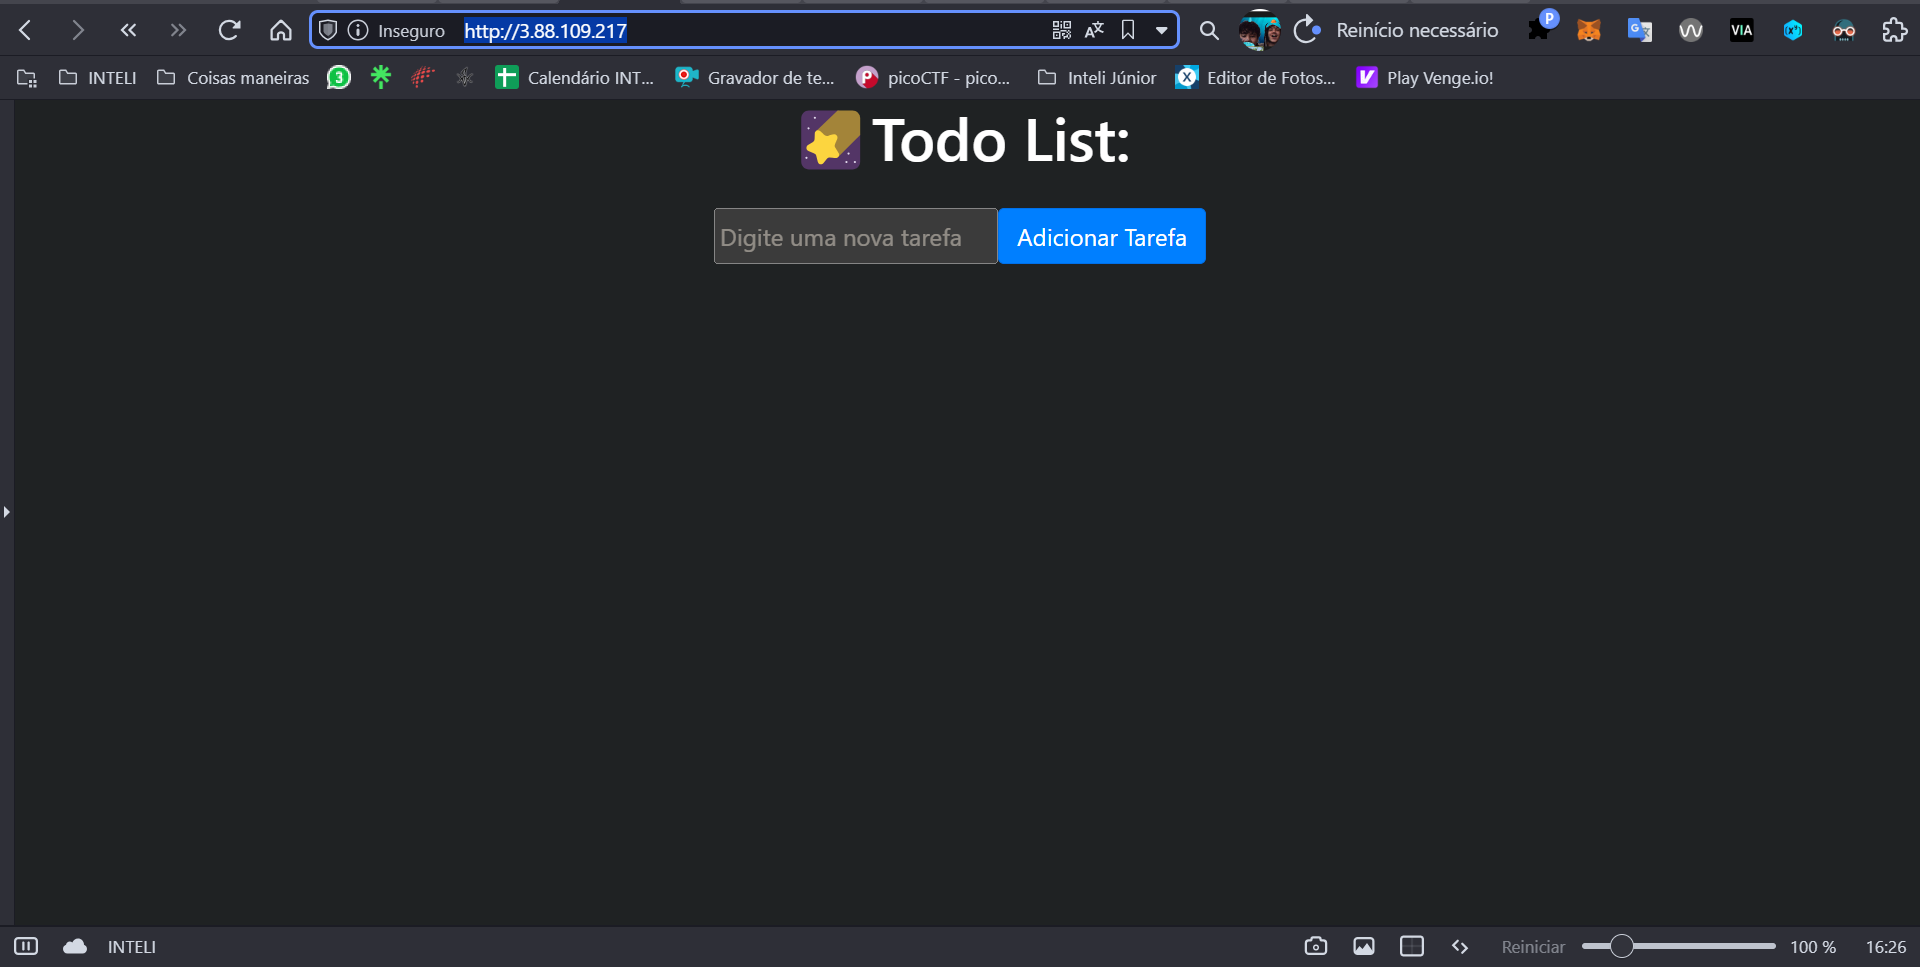
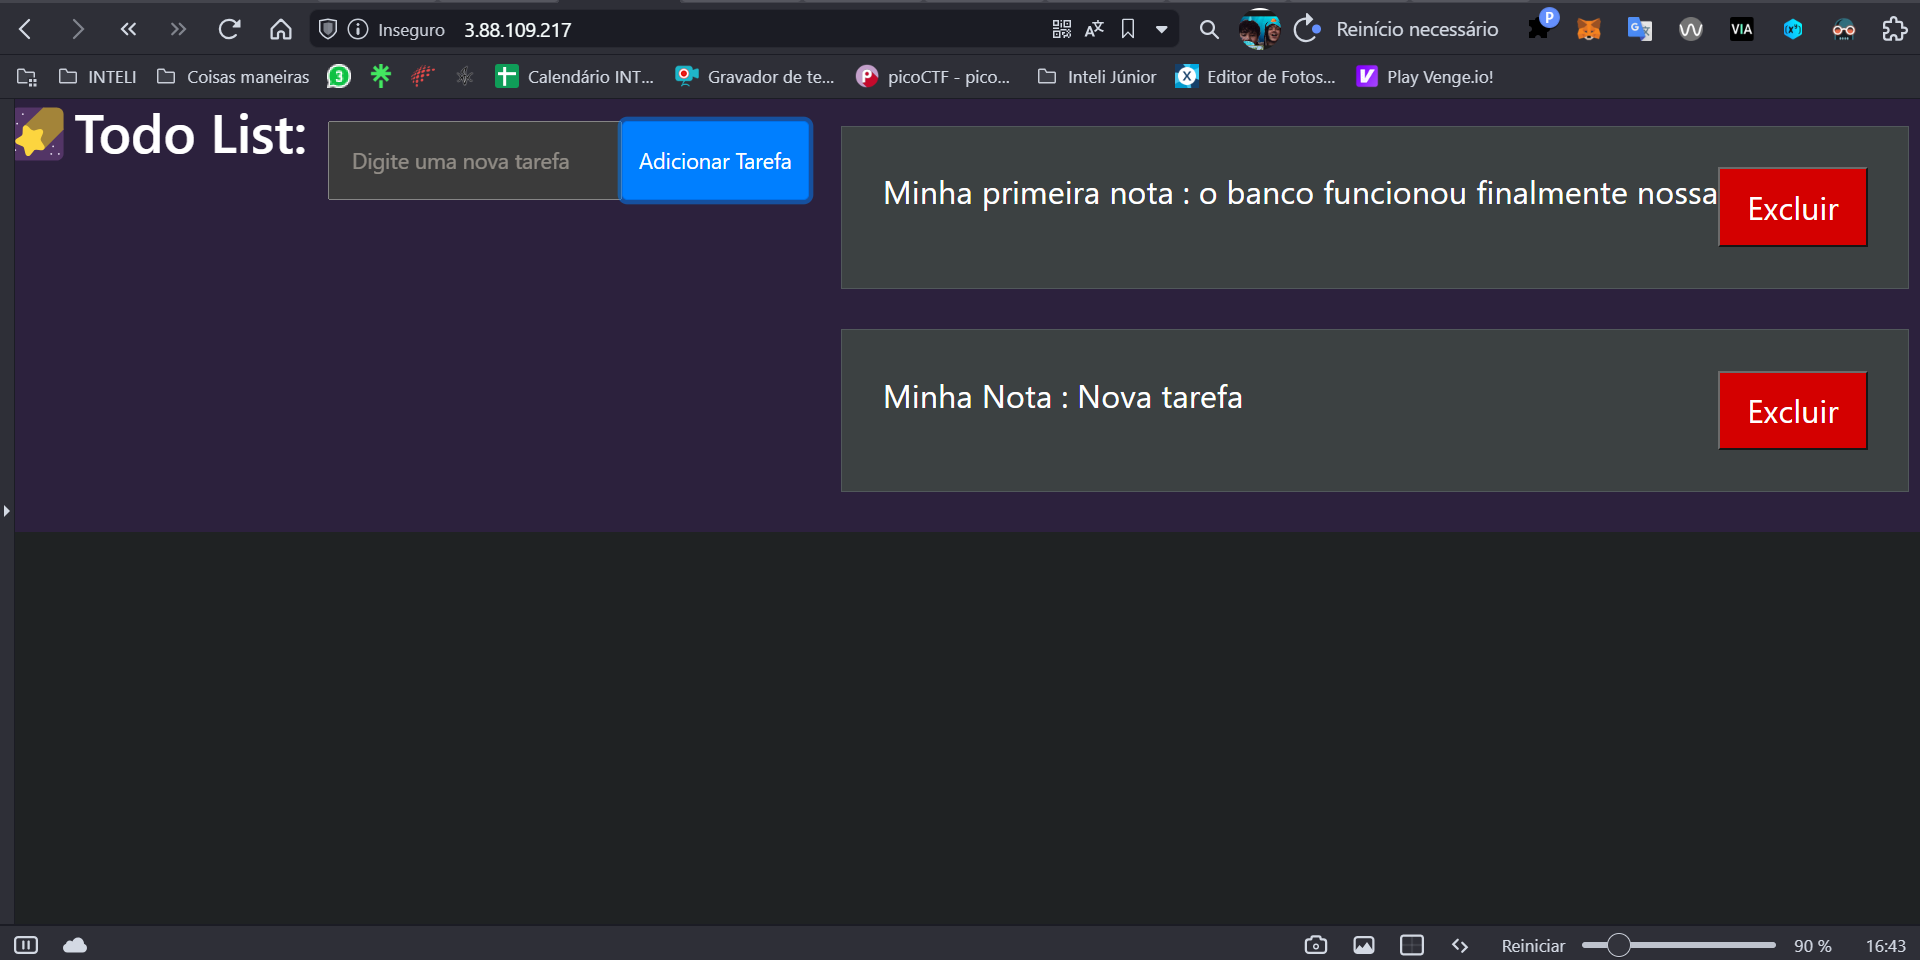
tudo funcionando, falta documentar a gambiarra

diff --git a/provas/prova_2/frontend/script.js b/provas/prova_2/frontend/script.js
@@ -4,7 +4,7 @@ function addTask() {
 
   if (taskText !== "") {
     //Realizar um POST com fetch para enviar os dados para o backend
-    fetch("http://34.239.111.82:80/create_note", {
+    fetch("http://34.239.111.82:8000/create_note", {
       method: "POST",
       body: JSON.stringify({
         titulo: `Minha Nota`,
@@ -26,7 +26,7 @@ function getTasks() {
   const taskList = document.getElementById("taskList");
   //Limpa a lista
   taskList.innerHTML = "";
-  fetch("http://34.239.111.82:80/notes")
+  fetch("http://34.239.111.82:8000/notes")
     .then((response) => response.json())
     .then((data) => {
       data["data"].forEach((task) => {
@@ -57,7 +57,7 @@ function getTasks() {
 }
 
 function deleteTask(id) {
-  fetch(`http://34.239.111.82:80/delete_note/`, {
+  fetch(`http://34.239.111.82:8000/delete_note/`, {
     method: "DELETE",
     headers: {
       "Content-type": "application/json; charset=UTF-8",

diff --git a/provas/prova_2/frontend/index.html b/provas/prova_2/frontend/index.html
@@ -9,7 +9,7 @@
       integrity="sha384-Gn5384xqQ1aoWXA+058RXPxPg6fy4IWvTNh0E263XmFcJlSAwiGgFAW/dAiS6JXm"
       crossorigin="anonymous"
     />
-    <link rel="stylesheet" href="style.css" />
+    <link rel="stylesheet" href="styles.css" />
     <title>Todo List - Prova Prática 2 - Inteli M7 - 2023</title>
   </head>
   <body>

diff --git a/provas/prova_2/backend/main.py b/provas/prova_2/backend/main.py
@@ -32,6 +32,21 @@ app.add_middleware(
 )
 
 
+@app.post("/create-table")
+def create_table():
+    cur.execute(
+        """DROP TABLE IF EXISTS minhas_notas ;
+
+    CREATE TABLE minhas_notas (
+        id SERIAL PRIMARY KEY,
+        titulo VARCHAR(255) NOT NULL,
+        descricao TEXT NOT null,
+        data_criacao TIMESTAMP NOT NULL DEFAULT CURRENT_TIMESTAMP
+    );"""
+    )
+    return {"response": "ok"}
+
+
 @app.get("/notes")
 def get_notes():
     cur.execute("SELECT * FROM minhas_notas;")
